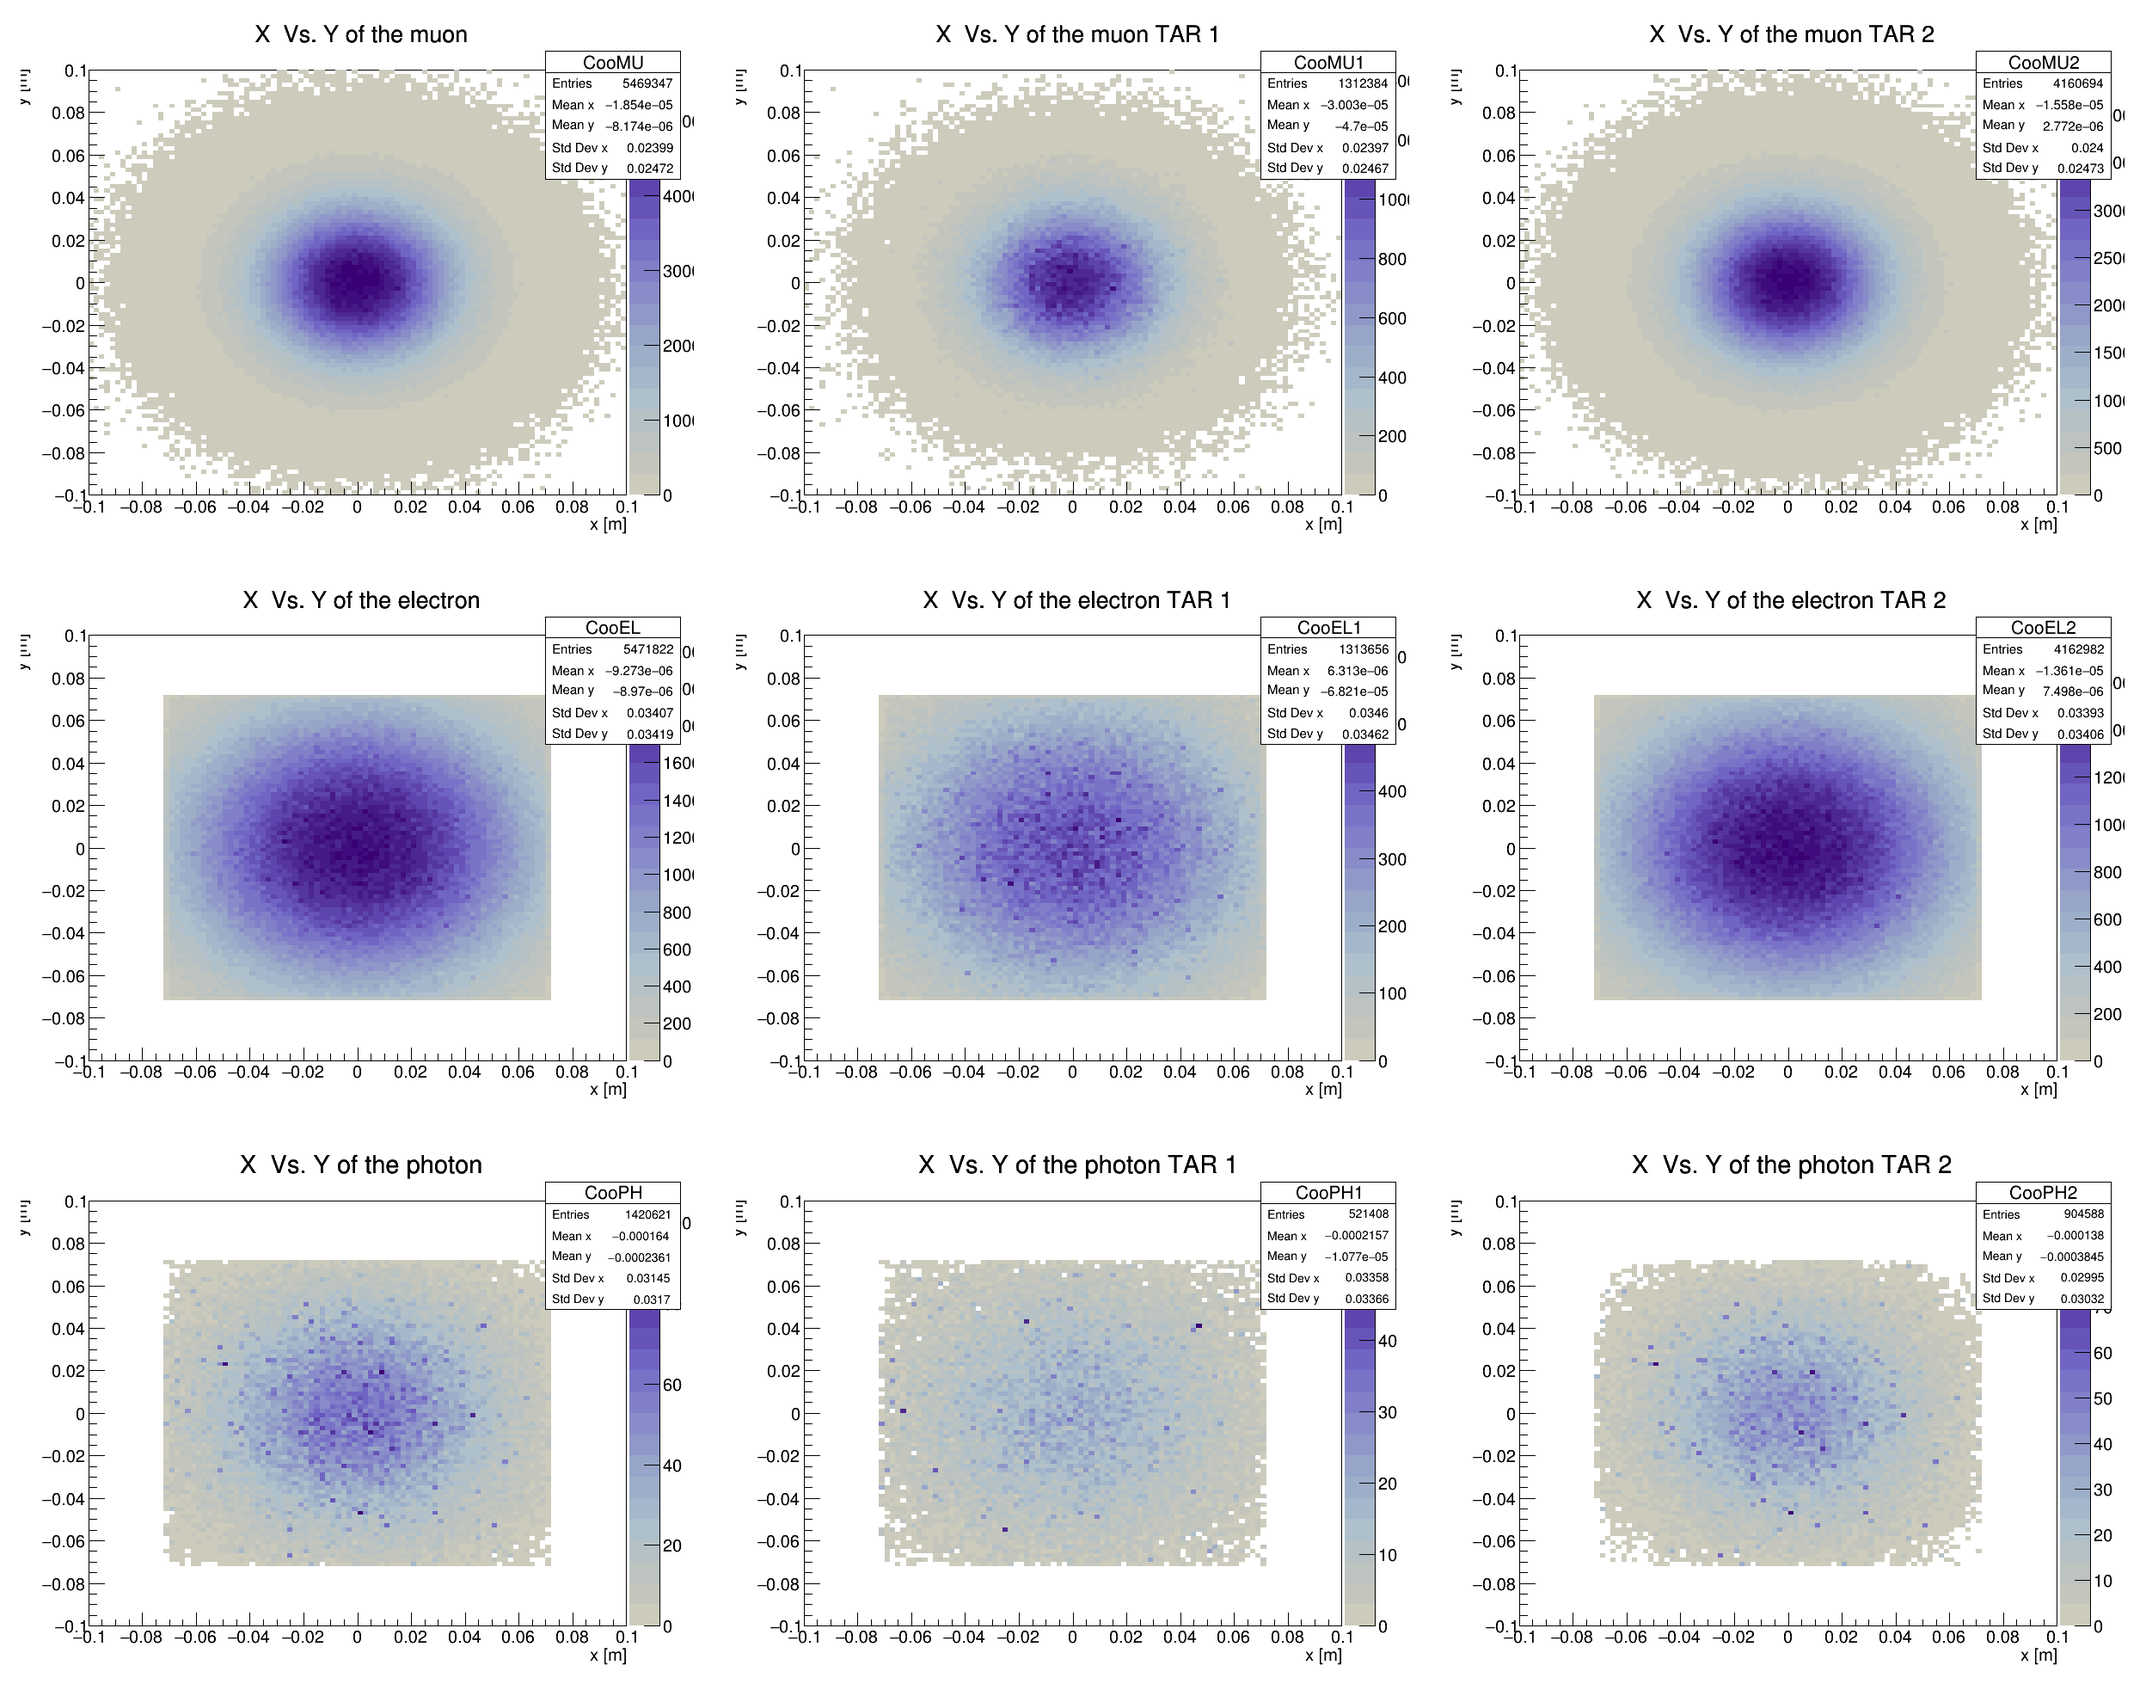
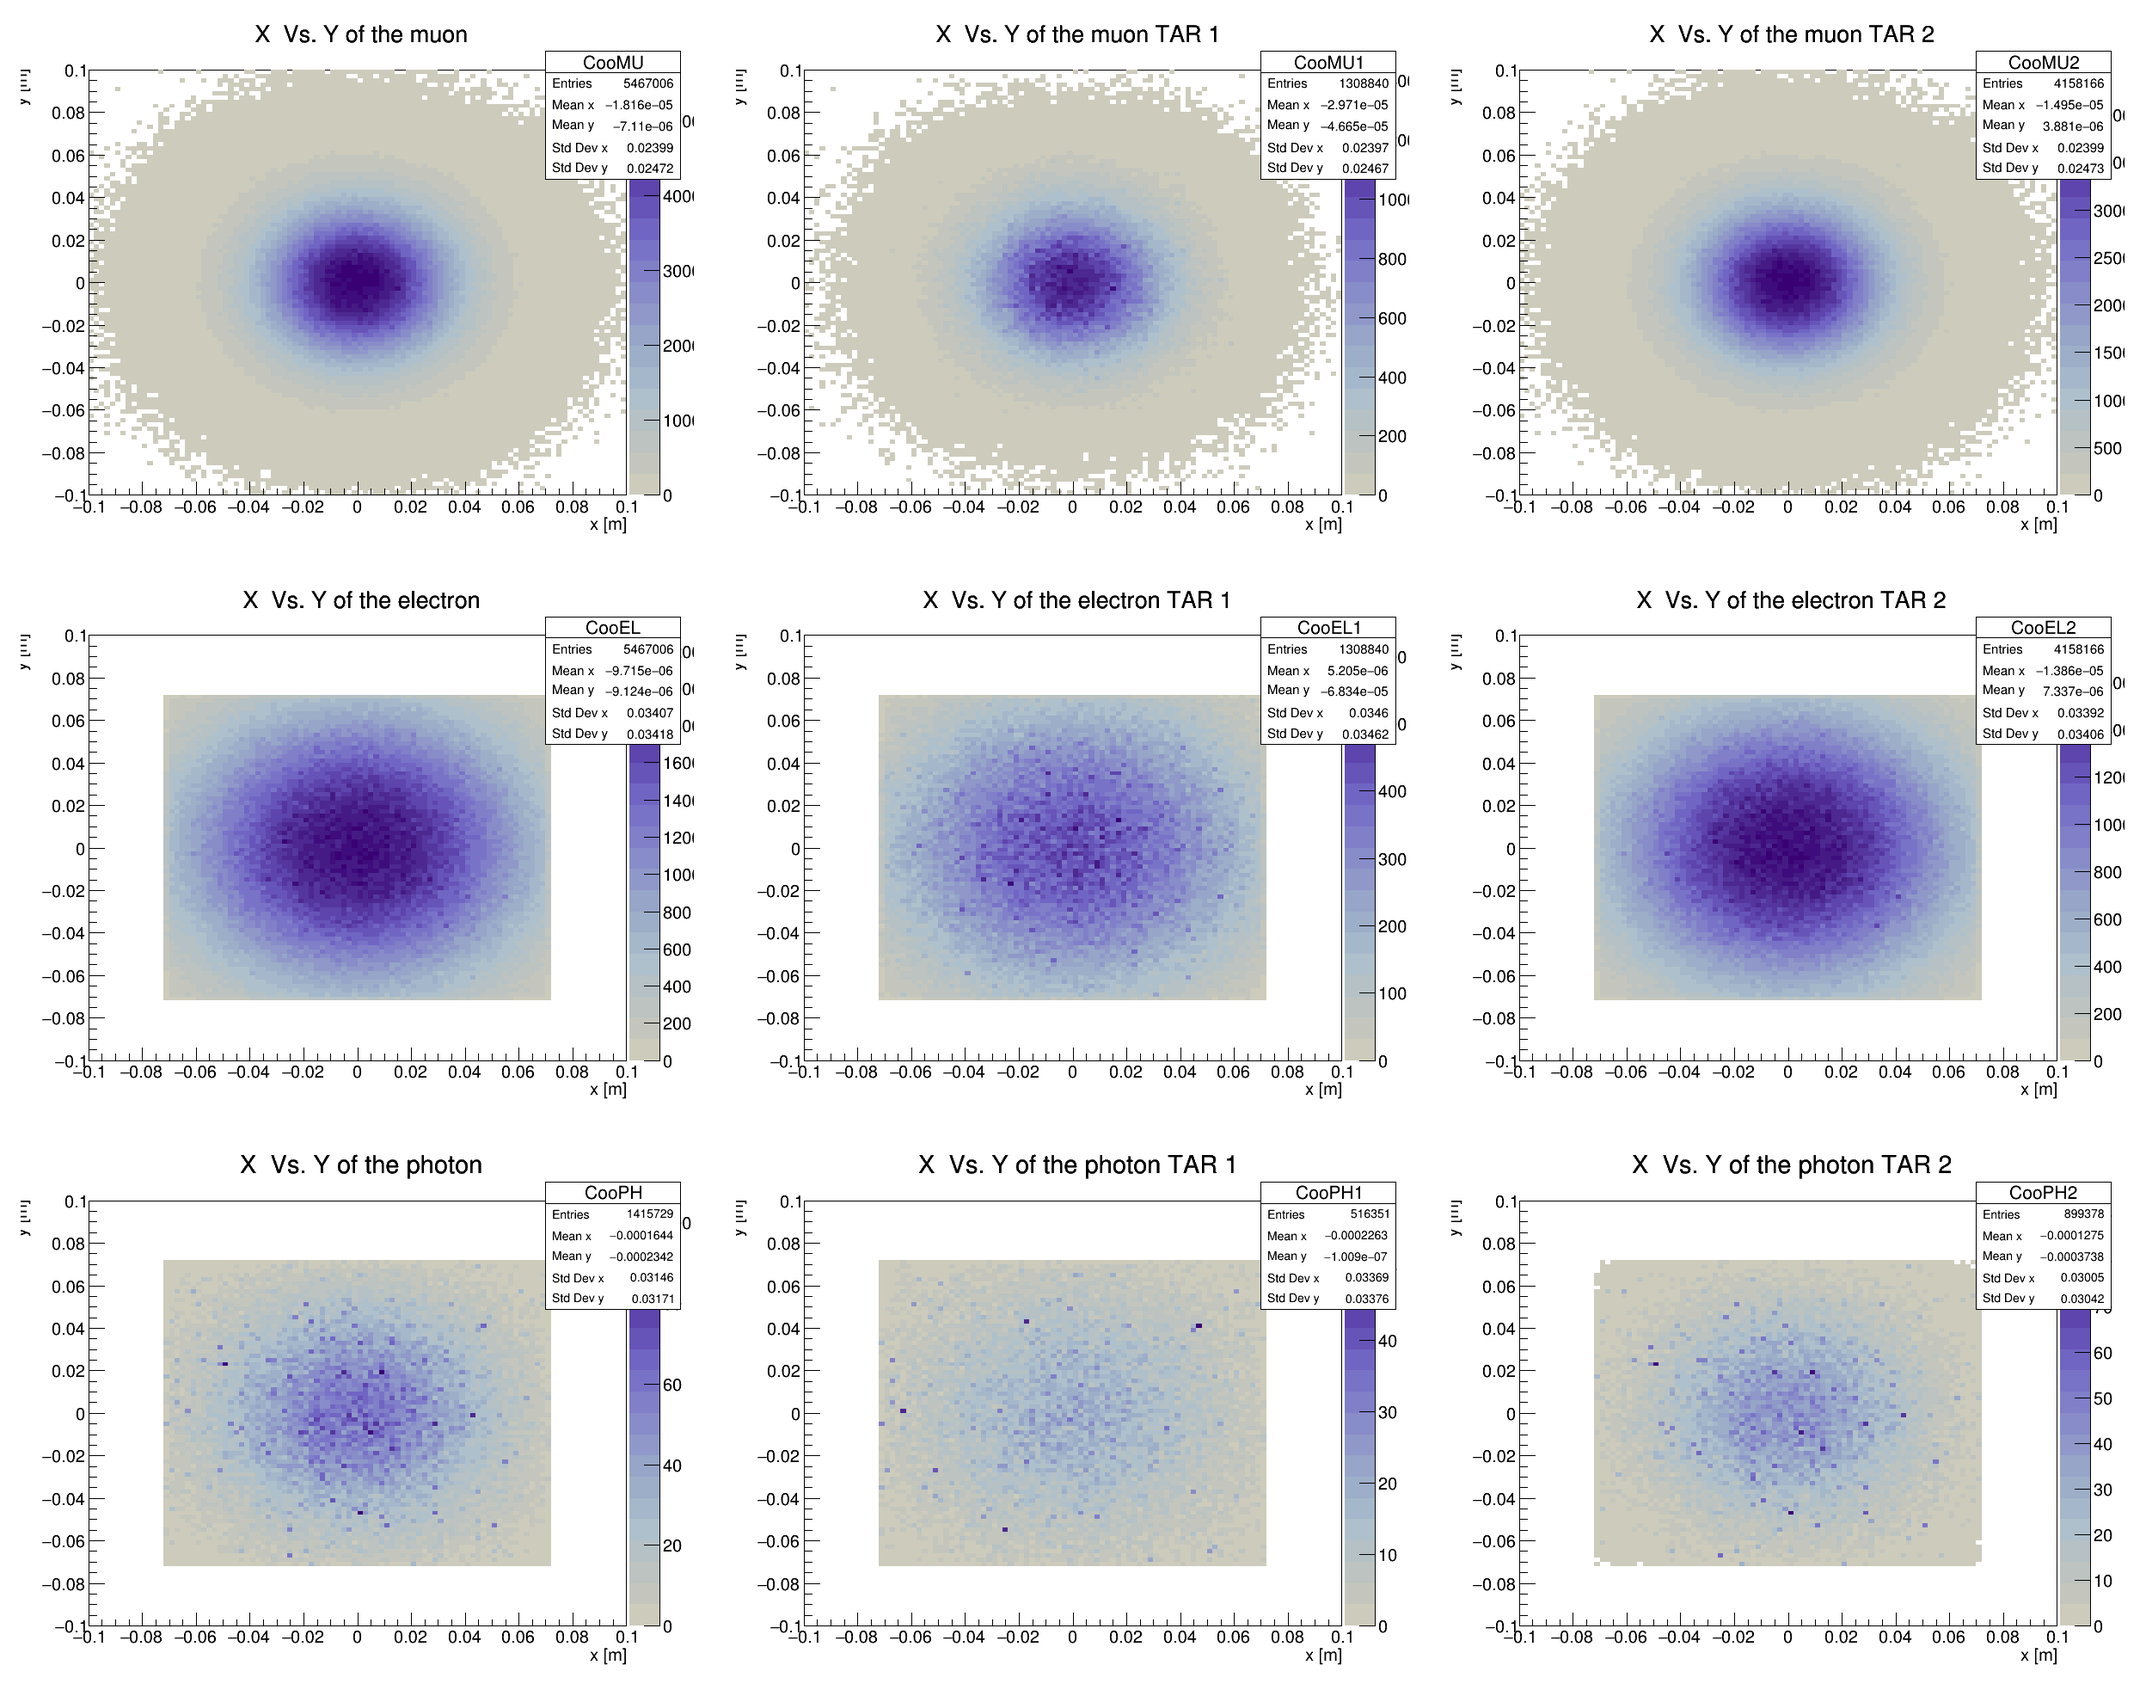
scema

diff --git a/nextLO.C b/nextLO.C
@@ -102,6 +102,7 @@ TH2F  *Th_E_el2  = new TH2F("ThEel2" , " Theta el Vs. E_ECAL TAR 2",180,0,0.1,70
        
       if (E_ECAL>0.2 && abs(detKinBeamRot_cooXe) < 0.07125 && abs(detKinBeamRot_cooYe) < 0.07125){
 
+        if (abs(detKinBeamRot_cooXmu) < 0.07125 && abs(detKinBeamRot_cooYmu) < 0.07125){
   // per muone          
     Double_t Pmu=sqrt(detKinBeamRot_pXmu_out*detKinBeamRot_pXmu_out+detKinBeamRot_pYmu_out*detKinBeamRot_pYmu_out+detKinBeamRot_pZmu_out*detKinBeamRot_pZmu_out);
             
@@ -138,7 +139,7 @@ TH2F  *Th_E_el2  = new TH2F("ThEel2" , " Theta el Vs. E_ECAL TAR 2",180,0,0.1,70
         thXZmu2->Fill(anglex_mu,wgt_full);
         thYZmu2->Fill(angley_mu,wgt_full);
                }
-    X_Y_mu ->Fill(detKinBeamRot_cooXmu, detKinBeamRot_cooYmu,wgt_full);
+    X_Y_mu ->Fill(detKinBeamRot_cooXmu, detKinBeamRot_cooYmu,wgt_full);}
         
         
         
